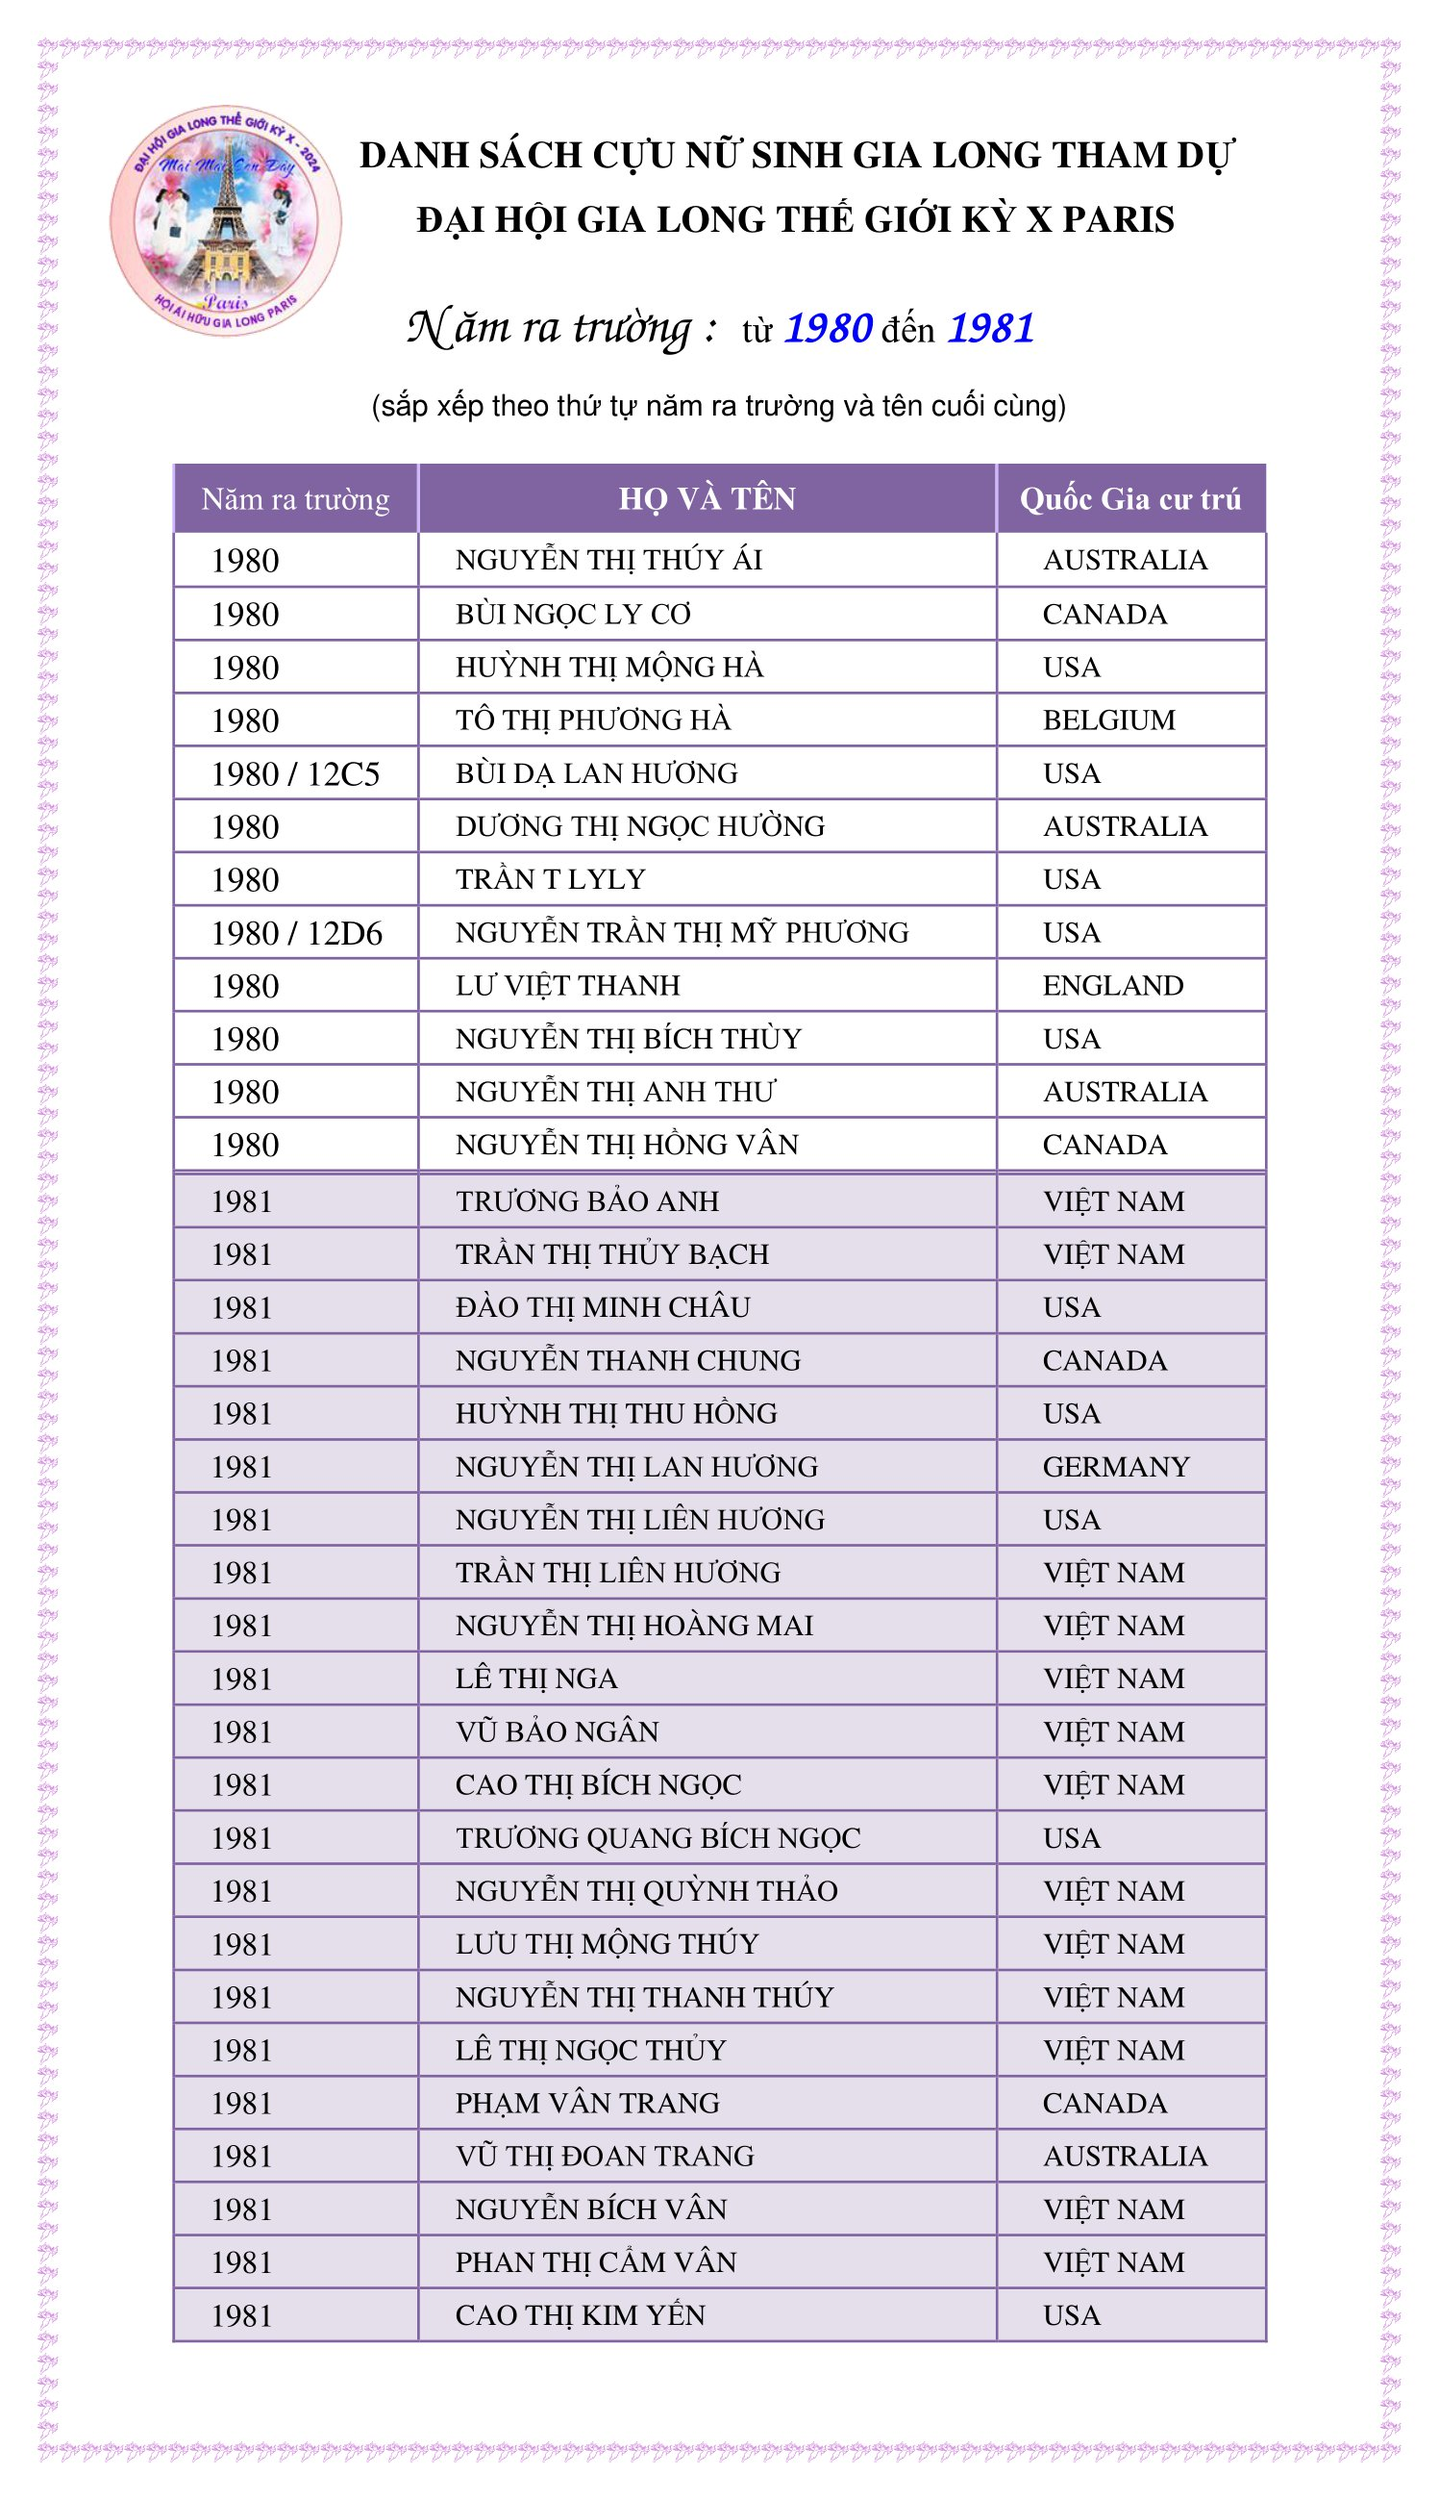
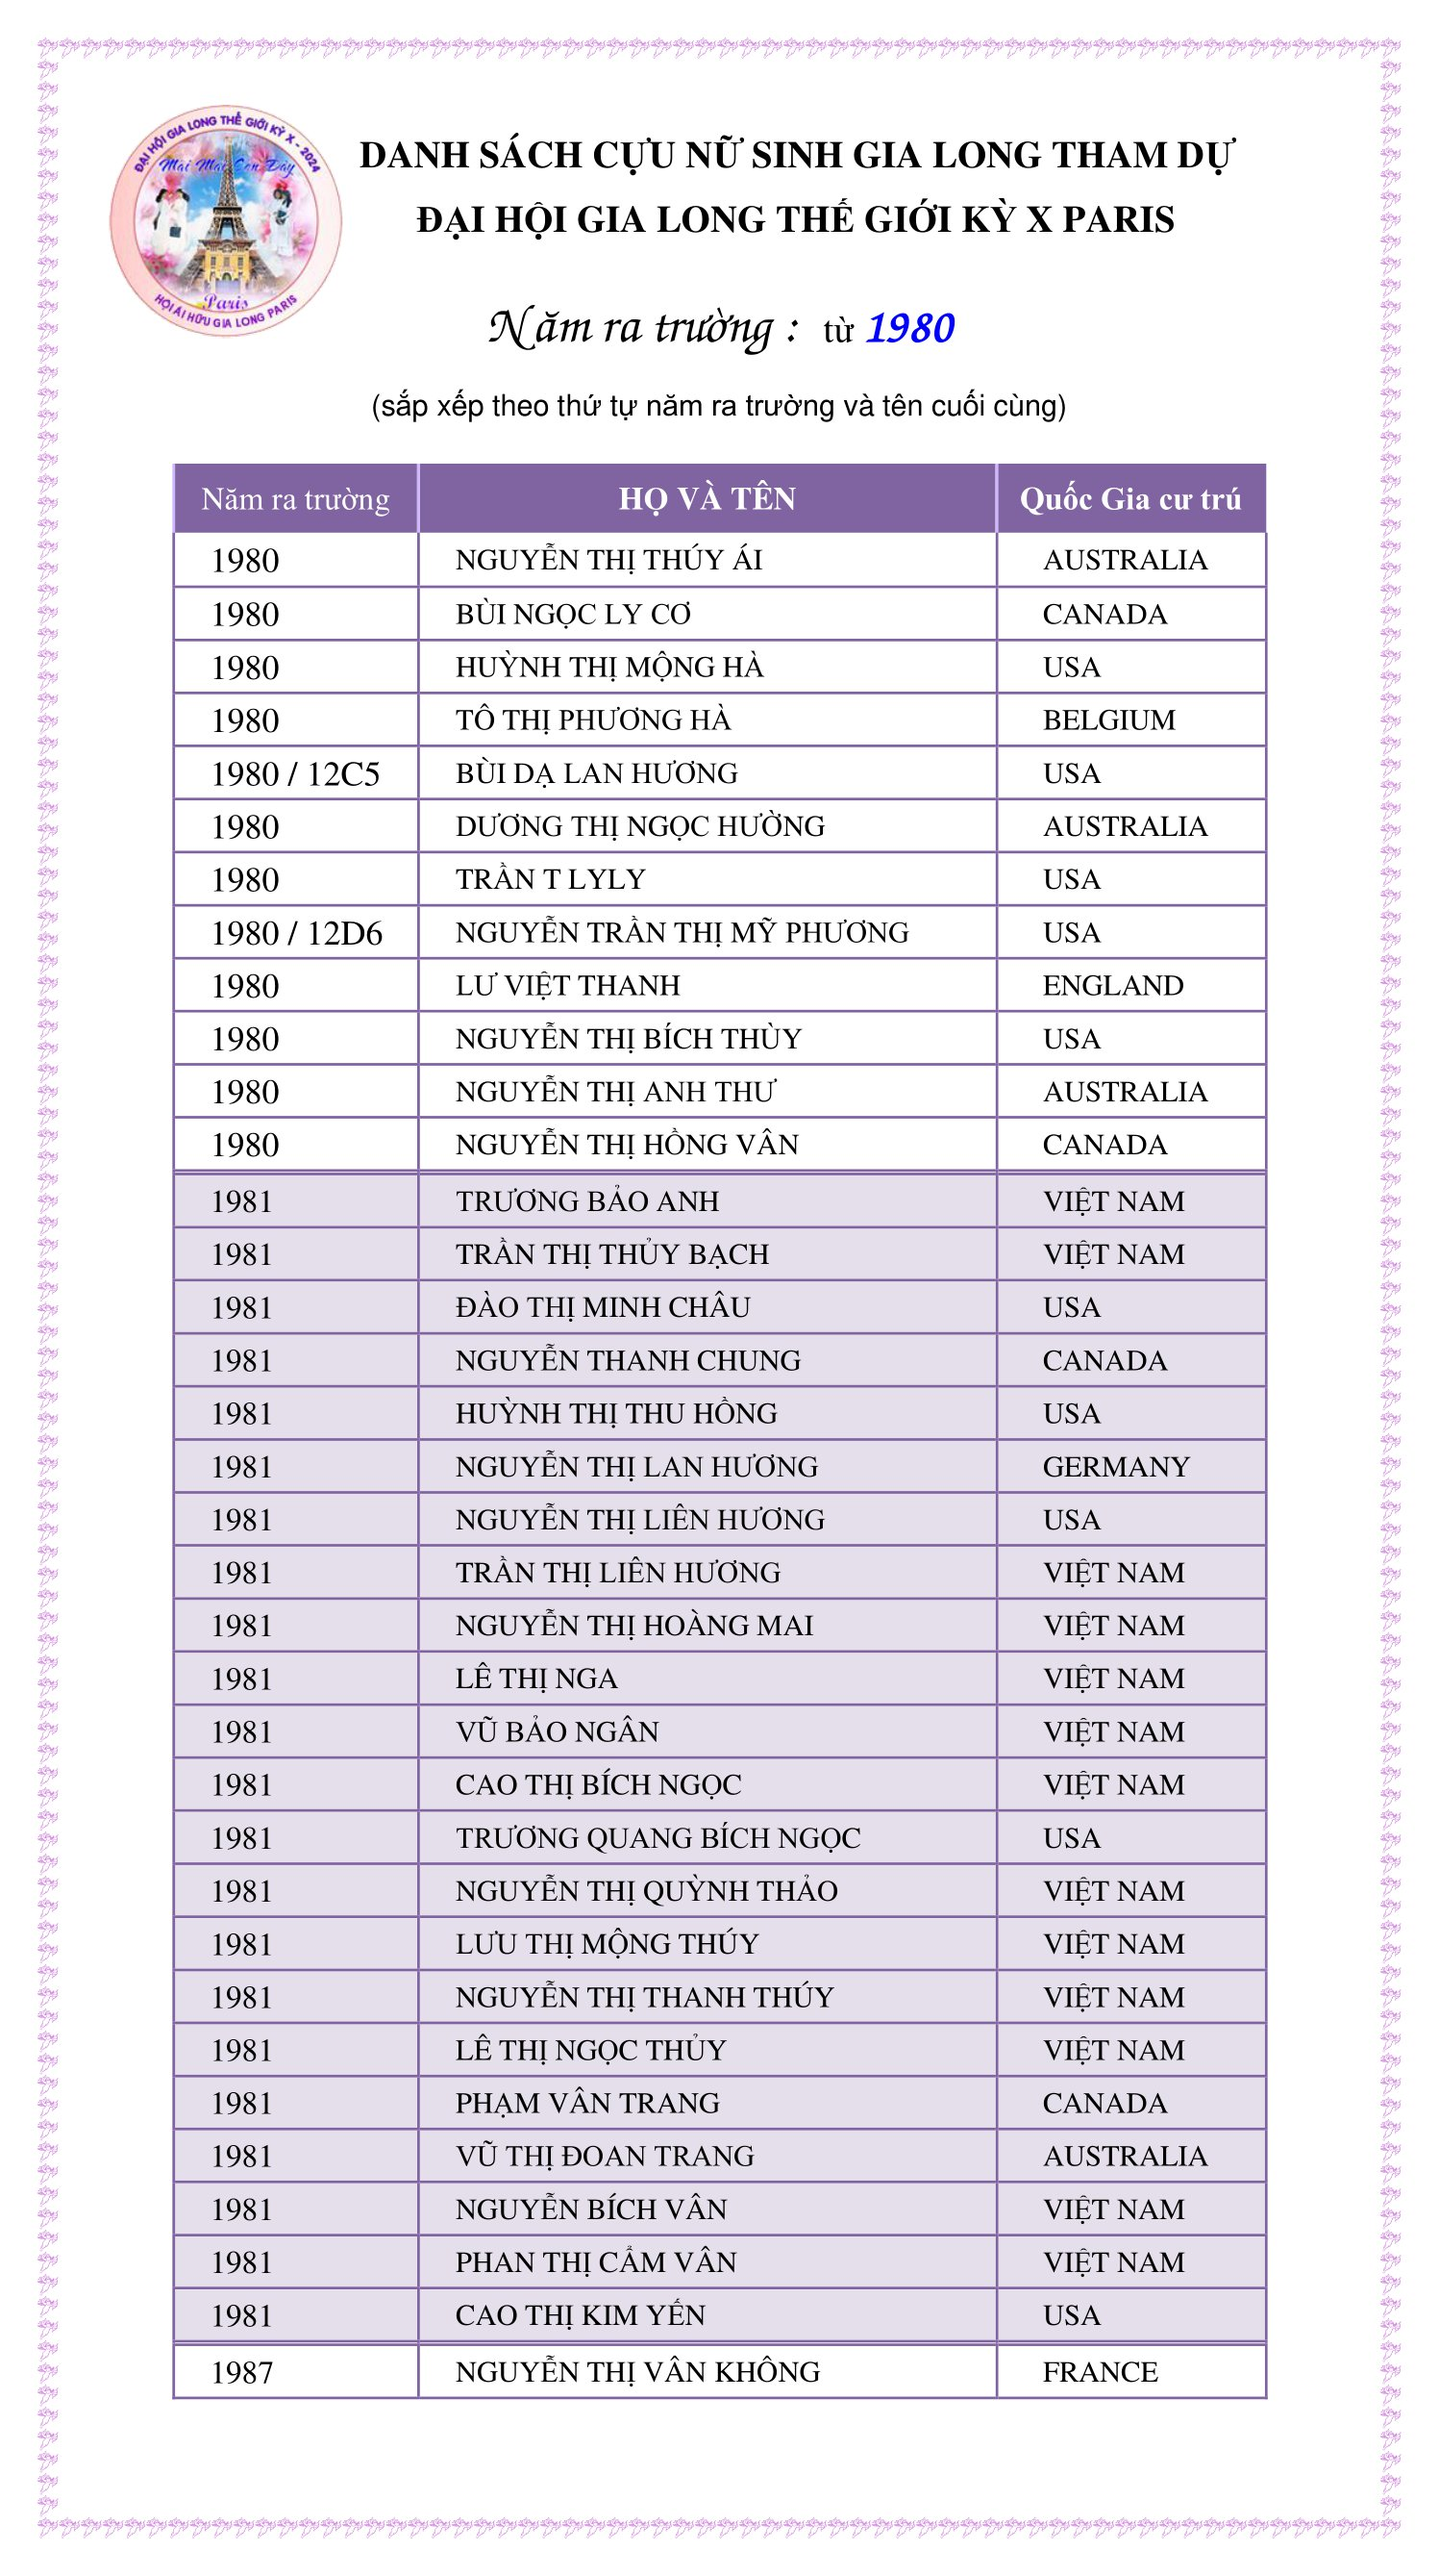
23-09-23
23-09-23

diff --git a/GhiDanh/DanhSachCuuNuSinh.html b/GhiDanh/DanhSachCuuNuSinh.html
@@ -129,7 +129,7 @@
                 <a href="#nienkhoa" onclick="SelNienKhoa(1)">&nbsp;&#10048 Từ 1960 đến 1969</a>
                 <a href="#nienkhoa" onclick="SelNienKhoa(2)">&nbsp;&#10048 Từ 1970 đến 1974</a>
                 <a href="#nienkhoa" onclick="SelNienKhoa(3)">&nbsp;&#10048 Từ 1975 đến 1979</a>
-                <a href="#nienkhoa" onclick="SelNienKhoa(4)">&nbsp;&#10048 Từ 1980 đến 1981</a>
+                <a href="#nienkhoa" onclick="SelNienKhoa(4)">&nbsp;&#10048 Từ 1980</a>
                 <br><br><br><br>
               </div>
             </div>
